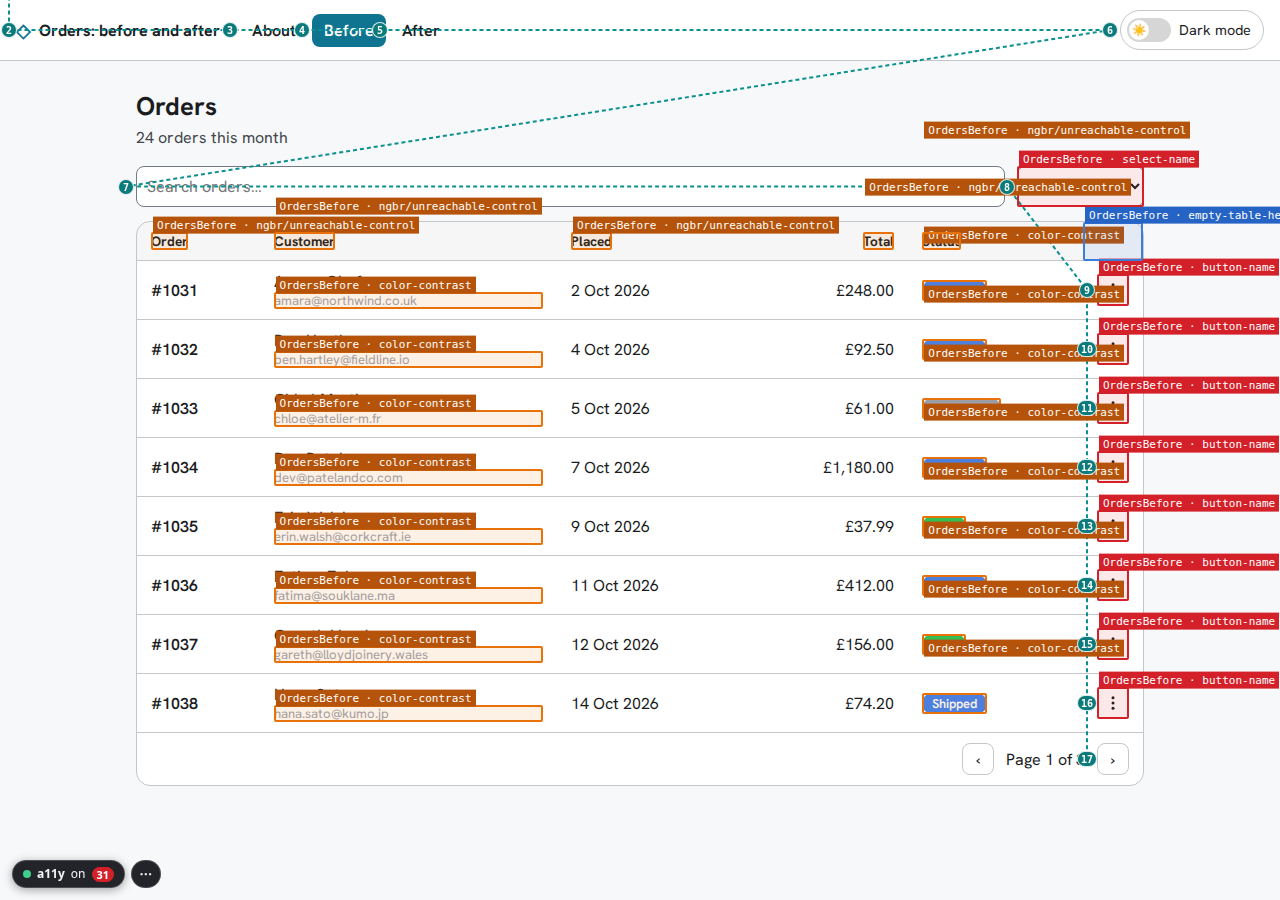
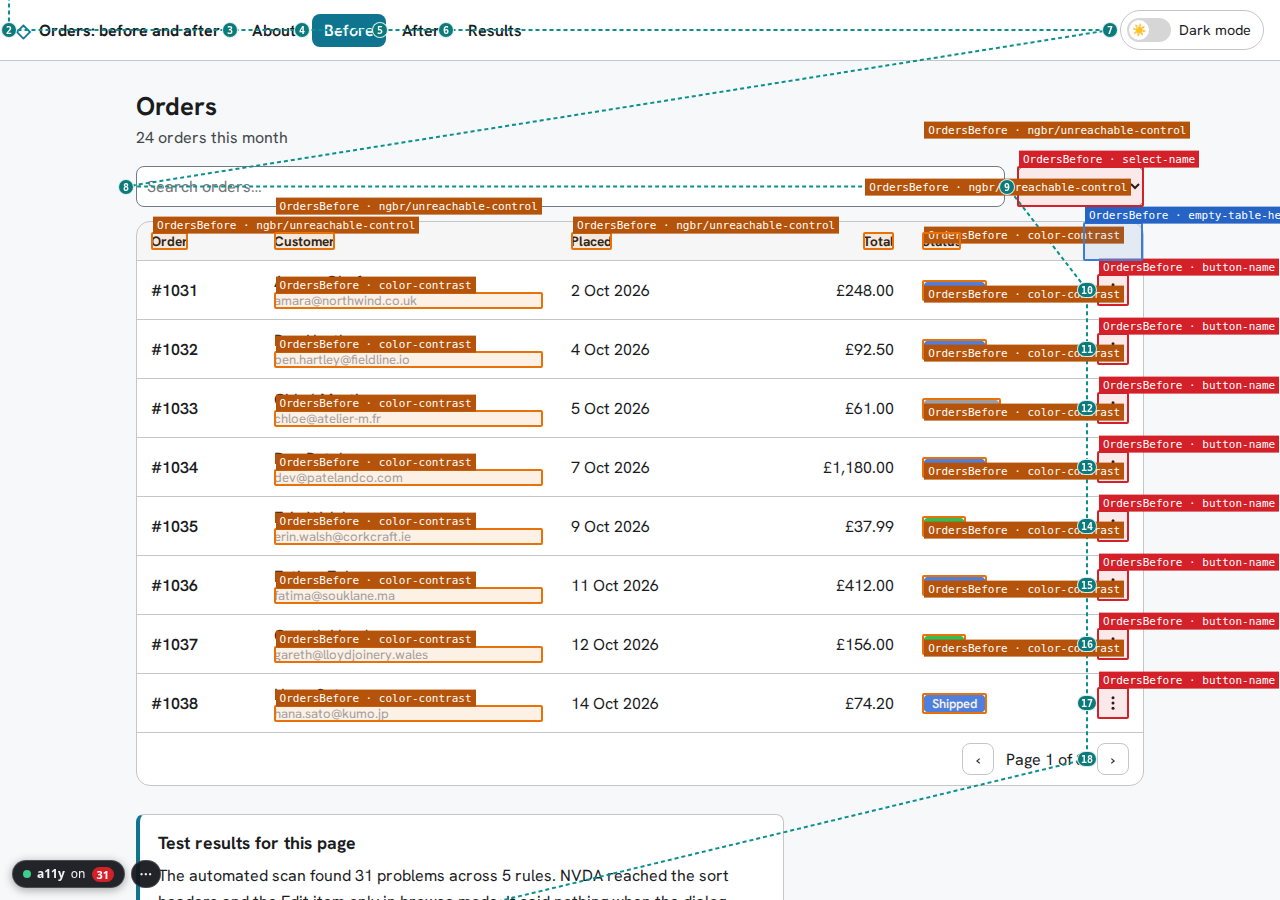
compare: review fixes for the Results page
Re-run the scan on this build so the Tab stops and screenshots include
the new summary aside. Pair NVDA steps and outcomes by name. Say that
the dark pass lists only new problems, that the aside came after the
NVDA run, and add the automated-checks caveat to the After summary.

diff --git a/projects/compare/src/app/results/evidence.ts b/projects/compare/src/app/results/evidence.ts
@@ -10,7 +10,8 @@
  *                  (target=compare), compare-before/after renamed
  *   *-scan.png     dev build, 1280x900, a11y-devtools overlay on
  *
- * Then check the hand-written outcomes in STEP_OUTCOMES still match.
+ * Then check the hand-written outcomes in STEP_OUTCOMES still match. They are
+ * keyed by step name; a step with no outcome shows as such on the page.
  */
 import nvdaAfterJson from '../../../public/evidence/nvda-after.json';
 import nvdaBeforeJson from '../../../public/evidence/nvda-before.json';
@@ -94,7 +95,7 @@ function summarise(route: string): ScanSummary {
   );
   const light = pages.find((p) => p.colorScheme === 'light');
   const tabStops = (light?.walkthrough?.steps ?? [])
-    .filter((s) => !['App', 'SkipLink', 'ThemeToggle'].includes(s.component))
+    .filter((s) => !['App', 'SkipLink', 'ThemeToggle', 'ResultsNote'].includes(s.component))
     .map((s) => ({ role: s.role, name: s.name }));
   return { findings: rules.reduce((n, r) => n + r.count, 0), rules, tabStops };
 }
@@ -102,29 +103,29 @@ function summarise(route: string): ScanSummary {
 export const SCAN_BEFORE = summarise('/before');
 export const SCAN_AFTER = summarise('/after');
 
-/** What each NVDA step shows, in one sentence per version. Same order as the steps. */
-export const STEP_OUTCOMES: { before: string; after: string }[] = [
-  {
+/** What each NVDA step shows, in one sentence per version, keyed by step name. */
+export const STEP_OUTCOMES: Record<string, { before: string; after: string }> = {
+  'Sort by Placed': {
     before:
       'Tab skips the column headers. NVDA reached "Placed" only in browse mode, read it as "clickable" and said nothing about the sort order.',
     after: 'Tab reaches the "Placed" header. After Enter, NVDA said "sorted ascending".',
   },
-  {
+  'Open the menu for order 1035': {
     before: 'The row menu buttons have no name, so NVDA read each one as "button". Enter opened the menu and NVDA said nothing.',
     after: 'NVDA read "Actions for order 1035, menu button". Enter opened the menu and NVDA read "Edit, 1 of 3".',
   },
-  {
+  'Choose Edit': {
     before:
       'Focus stayed on the menu button. NVDA reached "Edit" only in browse mode. The dialog opened and NVDA said nothing.',
     after: 'NVDA read the dialog name, "Edit order number 1035", and then the first field.',
   },
-  {
+  'Save with an empty email': {
     before: 'Red text under the field says "Enter a valid email address". Focus stayed on Save and NVDA said nothing.',
     after: 'Focus moved to the error summary and NVDA read "Enter an email address".',
   },
-  {
+  'Fix the email and save': {
     before: 'The dialog closed, focus was lost to the page body and NVDA said nothing.',
     after:
       'Focus went back to "Actions for order 1035" and NVDA read it. NVDA did not read the "Order #1035 saved" message: it read the focus move instead.',
   },
-];
+};

diff --git a/projects/compare/public/evidence/scan.html b/projects/compare/public/evidence/scan.html
@@ -63,7 +63,7 @@ ul.findings > li { padding: 10px 0; border-top: 1px solid var(--line); }
 <body>
 <main>
 <h1>Automated accessibility scan</h1>
-<p class="meta">Generated <time datetime="2026-11-07T18:46:52.122Z">2026-11-07T18:46:52.122Z</time> · @ngbracket/a11y-devtools report-mode</p>
+<p class="meta">Generated <time datetime="2026-11-07T18:54:01.555Z">2026-11-07T18:54:01.555Z</time> · @ngbracket/a11y-devtools report-mode</p>
 <p class="scope">Automated checks cover only part of WCAG. This is not a conformance report or a VPAT/ACR: manual keyboard, screen-reader and content review is still required. <a href="https://ngbracket.com/tools/a11y-devtools/docs/coverage">What automated checks cover</a>.</p>
 <section aria-labelledby="summary">
 <h2 id="summary">Summary</h2>
@@ -281,6 +281,7 @@ ul.findings > li { padding: 10px 0; border-top: 1px solid var(--line); }
 <li>link &quot;About&quot; — App</li>
 <li>link &quot;Before&quot; (current page) — App</li>
 <li>link &quot;After&quot; — App</li>
+<li>link &quot;Results&quot; — App</li>
 <li>switch &quot;Dark mode&quot; (not checked) — ThemeToggle</li>
 <li>searchbox &quot;Search orders…&quot; — OrdersBefore</li>
 <li>combobox (no accessible name) — OrdersBefore</li>
@@ -293,6 +294,7 @@ ul.findings > li { padding: 10px 0; border-top: 1px solid var(--line); }
 <li>button (no accessible name) — OrdersBefore</li>
 <li>button (no accessible name) — OrdersBefore</li>
 <li>button &quot;›&quot; — OrdersBefore</li>
+<li>link &quot;See the scan, screenshots and NVDA transcripts&quot; — ResultsNote</li>
 </ol>
 </div>
 </section>
@@ -313,6 +315,7 @@ ul.findings > li { padding: 10px 0; border-top: 1px solid var(--line); }
 <li>link &quot;About&quot; — App</li>
 <li>link &quot;Before&quot; — App</li>
 <li>link &quot;After&quot; (current page) — App</li>
+<li>link &quot;Results&quot; — App</li>
 <li>switch &quot;Dark mode&quot; (not checked) — ThemeToggle</li>
 <li>combobox &quot;Status&quot; (collapsed, has listbox popup) — NgbrSelect</li>
 <li>searchbox &quot;Search orders&quot; — NgbrDataTable</li>
@@ -331,6 +334,7 @@ ul.findings > li { padding: 10px 0; border-top: 1px solid var(--line); }
 <li>button &quot;Actions for order 1038&quot; (collapsed, has menu popup) — NgbrRowMenu</li>
 <li>button &quot;Next page&quot; — NgbrPaginator</li>
 <li>button &quot;Last page&quot; — NgbrPaginator</li>
+<li>link &quot;See the scan, screenshots and NVDA transcripts&quot; — ResultsNote</li>
 </ol>
 </div>
 </section>

diff --git a/projects/compare/src/app/results/results.html b/projects/compare/src/app/results/results.html
@@ -47,7 +47,8 @@
   <h2>Automated scan</h2>
   <p>
     &#64;ngbracket/a11y-devtools ran axe {{ axeVersion }} on both pages in light and dark themes on {{ scanDate }}.
-    It also ran its keyboard checks, which look for controls that Tab can't reach and for focus traps. In the
+    The dark pass lists only problems that light doesn't
+    already have, and found none on either page. It also ran its keyboard checks, which look for controls that Tab can't reach and for focus traps. In the
     screenshots the overlay is on: each label is a finding, named after the component that rendered it, and the
     numbered line is the Tab order.
   </p>
@@ -60,7 +61,7 @@
         height="900"
         alt="The Before page with the a11y-devtools overlay on. Red and orange labels mark findings on the row menu buttons, the status filter, the email addresses, the status pills and the column headers. The badge reads a11y on 31. The numbered Tab path goes from the search box to the status filter and then down the row menu buttons, past the column headers."
       />
-      <figcaption>Before: 31 findings. The Tab path skips the column headers.</figcaption>
+      <figcaption>Before: {{ scanBefore.findings }} findings. The Tab path skips the column headers.</figcaption>
     </figure>
     <figure>
       <img
@@ -73,8 +74,9 @@
     </figure>
   </div>
 
-  <h3 id="findings-before">Findings on Before</h3>
-  <table aria-labelledby="findings-before">
+  <h3>Findings on Before</h3>
+  <table>
+    <caption>Findings on Before, by rule</caption>
     <thead>
       <tr>
         <th scope="col">Rule</th>
@@ -125,7 +127,8 @@
   <h2>NVDA</h2>
   <p>
     NVDA ran the task in CI on Windows on {{ nvdaDate }}, against the live pages, in {{ nvdaBrowser }}. The keys went
-    to NVDA through Guidepup {{ guidepup }}, which also recorded what NVDA said. Typing the email address and moving
+    to NVDA through Guidepup {{ guidepup }}, which also recorded what NVDA said. The short summary under each version was added
+    after this run and sits below the table, so it doesn't change the steps. Typing the email address and moving
     to Save were scripted, so steps 4 and 5 show only what Enter on Save caused. Where Tab couldn't reach a control
     on Before, the run switched to NVDA's browse mode and moved there with the arrow keys.
   </p>

diff --git a/projects/compare/src/app/results/results.ts b/projects/compare/src/app/results/results.ts
@@ -19,6 +19,9 @@ interface StepPair {
   sides: { label: 'Before' | 'After'; run: NvdaStep & { outcome: string } }[];
 }
 
+const NO_OUTCOME = 'No summary written for this step yet. The transcript is below.';
+const MISSING_STEP: NvdaStep = { name: '', keys: 'none', spoken: '(this step is not in the Before run)', focus: '' };
+
 const longDate = (iso: string) =>
   new Date(`${iso}T12:00:00Z`).toLocaleDateString('en-GB', { day: 'numeric', month: 'long', year: 'numeric' });
 
@@ -42,12 +45,17 @@ export class Results {
   protected readonly unnamedBefore = SCAN_BEFORE.tabStops.filter((s) => !s.name).length;
   protected readonly unnamedAfter = SCAN_AFTER.tabStops.filter((s) => !s.name).length;
 
-  protected readonly steps: StepPair[] = NVDA_AFTER.steps.map((after, i) => ({
-    number: i + 1,
-    name: after.name,
-    sides: [
-      { label: 'Before', run: { ...NVDA_BEFORE.steps[i], outcome: STEP_OUTCOMES[i].before } },
-      { label: 'After', run: { ...after, outcome: STEP_OUTCOMES[i].after } },
-    ],
-  }));
+  /** Steps are paired by name, so a refreshed run with a changed step can't borrow another step's text. */
+  protected readonly steps: StepPair[] = NVDA_AFTER.steps.map((after, i) => {
+    const before = NVDA_BEFORE.steps.find((s) => s.name === after.name) ?? MISSING_STEP;
+    const outcome = STEP_OUTCOMES[after.name] ?? { before: NO_OUTCOME, after: NO_OUTCOME };
+    return {
+      number: i + 1,
+      name: after.name,
+      sides: [
+        { label: 'Before', run: { ...before, outcome: outcome.before } },
+        { label: 'After', run: { ...after, outcome: outcome.after } },
+      ],
+    };
+  });
 }

diff --git a/projects/compare/src/app/results-note.ts b/projects/compare/src/app/results-note.ts
@@ -21,7 +21,7 @@ import { SCAN_AFTER, SCAN_BEFORE } from './results/evidence';
         <p>
           The automated scan found {{ afterFound }}. NVDA read the
           sort order, the menu, the dialog name and the error, and focus went back to the row's menu button after
-          saving. NVDA did not read the "saved" message.
+          saving. NVDA did not read the "saved" message. Automated checks cover only part of WCAG.
         </p>
       }
       <p><a routerLink="/results">See the scan, screenshots and NVDA transcripts</a></p>

diff --git a/projects/compare/public/evidence/scan.md b/projects/compare/public/evidence/scan.md
@@ -1,6 +1,6 @@
 # Automated accessibility scan
 
-_Generated 2026-11-07T18:46:52.122Z · @ngbracket/a11y-devtools report-mode_
+_Generated 2026-11-07T18:54:01.555Z · @ngbracket/a11y-devtools report-mode_
 
 > Automated checks cover only part of WCAG. This is not a conformance report or a VPAT/ACR: manual keyboard, screen-reader and content review is still required. [What automated checks cover](https://ngbracket.com/tools/a11y-devtools/docs/coverage).
 
@@ -123,10 +123,10 @@ _Each tab stop in order, with its computed role, name and states. A computed app
 3. link "About" — App
 4. link "Before" (current page) — App
 5. link "After" — App
-6. switch "Dark mode" (not checked) — ThemeToggle
-7. searchbox "Search orders…" — OrdersBefore
-8. combobox (no accessible name) — OrdersBefore
-9. button (no accessible name) — OrdersBefore
+6. link "Results" — App
+7. switch "Dark mode" (not checked) — ThemeToggle
+8. searchbox "Search orders…" — OrdersBefore
+9. combobox (no accessible name) — OrdersBefore
 10. button (no accessible name) — OrdersBefore
 11. button (no accessible name) — OrdersBefore
 12. button (no accessible name) — OrdersBefore
@@ -134,7 +134,9 @@ _Each tab stop in order, with its computed role, name and states. A computed app
 14. button (no accessible name) — OrdersBefore
 15. button (no accessible name) — OrdersBefore
 16. button (no accessible name) — OrdersBefore
-17. button "›" — OrdersBefore
+17. button (no accessible name) — OrdersBefore
+18. button "›" — OrdersBefore
+19. link "See the scan, screenshots and NVDA transcripts" — ResultsNote
 
 ## /before (dark) — `http://localhost:4317/before`
 
@@ -155,24 +157,26 @@ _Each tab stop in order, with its computed role, name and states. A computed app
 3. link "About" — App
 4. link "Before" — App
 5. link "After" (current page) — App
-6. switch "Dark mode" (not checked) — ThemeToggle
-7. combobox "Status" (collapsed, has listbox popup) — NgbrSelect
-8. searchbox "Search orders" — NgbrDataTable
-9. button "Order" — NgbrDataTable
-10. button "Customer" — NgbrDataTable
-11. button "Placed" — NgbrDataTable
-12. button "Total" — NgbrDataTable
-13. button "Status" — NgbrDataTable
-14. button "Actions for order 1031" (collapsed, has menu popup) — NgbrRowMenu
-15. button "Actions for order 1032" (collapsed, has menu popup) — NgbrRowMenu
-16. button "Actions for order 1033" (collapsed, has menu popup) — NgbrRowMenu
-17. button "Actions for order 1034" (collapsed, has menu popup) — NgbrRowMenu
-18. button "Actions for order 1035" (collapsed, has menu popup) — NgbrRowMenu
-19. button "Actions for order 1036" (collapsed, has menu popup) — NgbrRowMenu
-20. button "Actions for order 1037" (collapsed, has menu popup) — NgbrRowMenu
-21. button "Actions for order 1038" (collapsed, has menu popup) — NgbrRowMenu
-22. button "Next page" — NgbrPaginator
-23. button "Last page" — NgbrPaginator
+6. link "Results" — App
+7. switch "Dark mode" (not checked) — ThemeToggle
+8. combobox "Status" (collapsed, has listbox popup) — NgbrSelect
+9. searchbox "Search orders" — NgbrDataTable
+10. button "Order" — NgbrDataTable
+11. button "Customer" — NgbrDataTable
+12. button "Placed" — NgbrDataTable
+13. button "Total" — NgbrDataTable
+14. button "Status" — NgbrDataTable
+15. button "Actions for order 1031" (collapsed, has menu popup) — NgbrRowMenu
+16. button "Actions for order 1032" (collapsed, has menu popup) — NgbrRowMenu
+17. button "Actions for order 1033" (collapsed, has menu popup) — NgbrRowMenu
+18. button "Actions for order 1034" (collapsed, has menu popup) — NgbrRowMenu
+19. button "Actions for order 1035" (collapsed, has menu popup) — NgbrRowMenu
+20. button "Actions for order 1036" (collapsed, has menu popup) — NgbrRowMenu
+21. button "Actions for order 1037" (collapsed, has menu popup) — NgbrRowMenu
+22. button "Actions for order 1038" (collapsed, has menu popup) — NgbrRowMenu
+23. button "Next page" — NgbrPaginator
+24. button "Last page" — NgbrPaginator
+25. link "See the scan, screenshots and NVDA transcripts" — ResultsNote
 
 ## /after (dark) — `http://localhost:4317/after`
 
